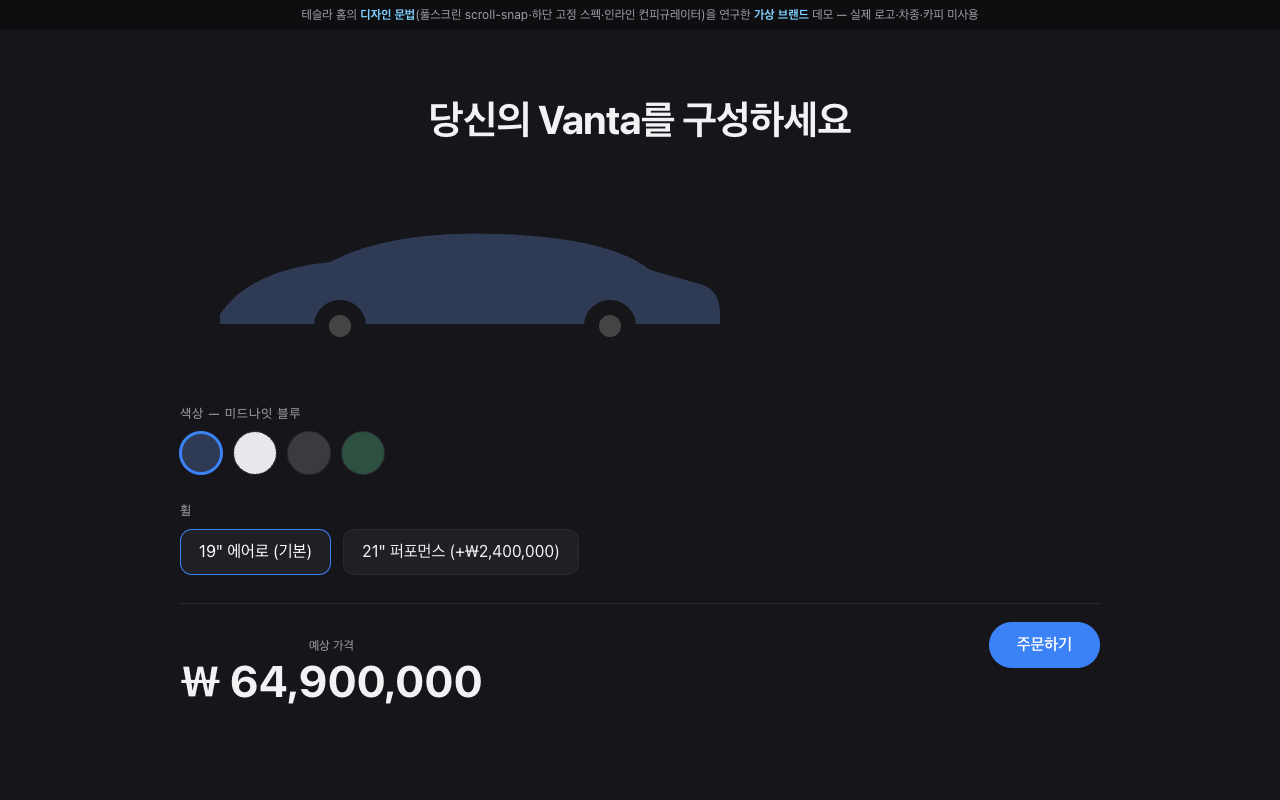
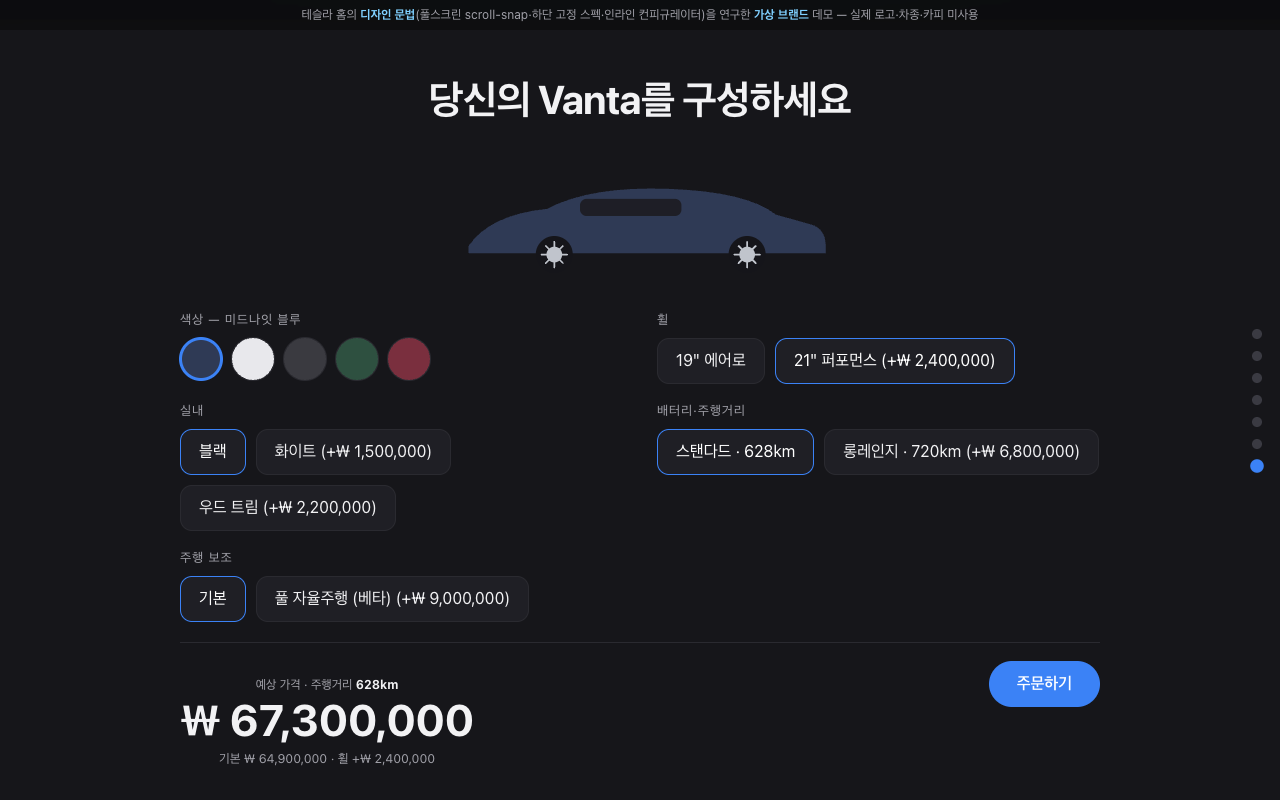
feat(vanta-ev): 스냅 인디케이터 + 패널 리빌 + 폴리시 + 썸네일(마감)
- 스냅 인디케이터: 우측 점 7개(클릭=앵커 JS0, 현재 패널 강조=IO). 기존 script에 append.
- 패널 진입 리빌: h1·specbar 페이드+라이즈(CSS scroll-driven, .snap 기준), @user/reduced-motion 폴백. 스크롤 큐 바운스.
- 썸네일: public/static/showcases/vanta-ev.png(1280×800, 컨피규레이터 + 인디케이터).

배치 1~2(7패널 scroll-snap·컨피규레이터 5그룹·specbar) 무손상. JS 1블록 유지. 이미지 0·다크 테마 유지. yarn demo:sync 폴더 복사. build/golden 그린, demos 격리.

diff --git a/demos/vanta-ev/index.html b/demos/vanta-ev/index.html
@@ -41,7 +41,29 @@
   .scene .specbar { position: absolute; bottom: 9vh; left: 0; right: 0; display: flex; gap: clamp(20px, 6vw, 64px); justify-content: center; }
   .specbar .c .v { font-size: clamp(22px, 4vw, 34px); font-weight: 700; }
   .specbar .c .k { font-size: 12px; color: var(--ink-2); letter-spacing: .03em; }
-  .scroll-cue { position: absolute; bottom: 3vh; left: 0; right: 0; font-size: 12px; color: var(--ink-2); letter-spacing: .2em; }
+  .scroll-cue { position: absolute; bottom: 3vh; left: 0; right: 0; font-size: 12px; color: var(--ink-2); letter-spacing: .2em; animation: cue 1.8s ease-in-out infinite; }
+  @keyframes cue { 0%,100% { transform: translateY(0); opacity: .7; } 50% { transform: translateY(6px); opacity: 1; } }
+
+  /* ── 스냅 인디케이터(우측 점) — 클릭 시 해당 패널로(앵커), 현재 패널 강조(JS) ── */
+  .dots { position: fixed; top: 50%; right: 18px; transform: translateY(-50%); z-index: 40; display: flex; flex-direction: column; gap: 12px; }
+  .dots a { width: 10px; height: 10px; border-radius: 50%; background: #3a3a42; transition: background .25s, transform .25s; }
+  .dots a:hover { background: var(--ink-2); }
+  .dots a.on { background: var(--accent); transform: scale(1.35); }
+  @media (max-width: 700px) { .dots { display: none; } }
+
+  /* ── 패널 진입 리빌(은은) — CSS scroll-driven, .snap 스크롤러 기준 ── */
+  @supports (animation-timeline: view()) {
+    .scene h1, .scene .sub, .scene .specbar { animation: rise linear both; animation-timeline: view(); }
+    .scene h1 { animation-range: entry 8% cover 34%; }
+    .scene .sub { animation-range: entry 14% cover 40%; }
+    .scene .specbar { animation-range: entry 20% cover 46%; }
+  }
+  @keyframes rise { from { opacity: 0; transform: translateY(26px); } to { opacity: 1; transform: none; } }
+  @media (prefers-reduced-motion: reduce) {
+    .snap { scroll-behavior: auto; }
+    .scroll-cue, .streak line { animation: none; }
+    .scene h1, .scene .sub, .scene .specbar { animation: none !important; opacity: 1; transform: none; }
+  }
 
   /* 컨피규레이터 */
   .config { background: var(--panel); }
@@ -72,7 +94,16 @@
   <p class="study">테슬라 홈의 <b>디자인 문법</b>(풀스크린 scroll-snap·하단 고정 스펙·인라인 컨피규레이터)을 연구한 <b>가상 브랜드</b> 데모 — 실제 로고·차종·카피 미사용</p>
 
   <div class="snap">
-    <section class="scene s1">
+    <nav class="dots" aria-label="패널 내비게이션">
+      <a href="#p1" aria-label="패널 1"></a>
+      <a href="#p2" aria-label="패널 2"></a>
+      <a href="#p3" aria-label="패널 3"></a>
+      <a href="#p4" aria-label="패널 4"></a>
+      <a href="#p5" aria-label="패널 5"></a>
+      <a href="#p6" aria-label="패널 6"></a>
+      <a href="#p7" aria-label="패널 7"></a>
+    </nav>
+    <section class="scene s1" id="p1">
       <div>
         <h1>Vanta</h1>
         <p class="sub">전기로 다시 그린 주행.</p>
@@ -92,7 +123,7 @@
       <div class="scroll-cue">스크롤 ↓</div>
     </section>
 
-    <section class="scene s4">
+    <section class="scene s4" id="p2">
       <div>
         <h1>정지에서 속도까지,<br>망설임 없이.</h1>
         <p class="sub">듀얼 모터가 네 바퀴를 동시에 민다. 생각하는 순간, 이미 달린다.</p>
@@ -117,7 +148,7 @@
       <div class="scroll-cue">스크롤 ↓</div>
     </section>
 
-    <section class="scene s5">
+    <section class="scene s5" id="p3">
       <div>
         <h1>하루를 채우고도<br>남는다.</h1>
         <p class="sub">아침 출근부터 주말 여행까지. 충전 걱정은 잠시 잊어도 좋다.</p>
@@ -139,7 +170,7 @@
       <div class="scroll-cue">스크롤 ↓</div>
     </section>
 
-    <section class="scene s2">
+    <section class="scene s2" id="p4">
       <div>
         <h1>멈출 때를 안다.</h1>
         <p class="sub">8개의 카메라가 360°를 본다. 끼어드는 차도, 갑자기 멈춘 차도.</p>
@@ -152,7 +183,7 @@
       <div class="scroll-cue">스크롤 ↓</div>
     </section>
 
-    <section class="scene s6">
+    <section class="scene s6" id="p5">
       <div>
         <h1>운전석이 곧<br>인터페이스.</h1>
         <p class="sub">버튼을 지웠다. 모든 조작이 하나의 화면으로, 그리고 목소리로.</p>
@@ -176,7 +207,7 @@
       <div class="scroll-cue">스크롤 ↓</div>
     </section>
 
-    <section class="scene s7">
+    <section class="scene s7" id="p6">
       <div>
         <h1>스스로 보고,<br>스스로 판단한다.</h1>
         <p class="sub">차선 유지부터 자동 차선 변경까지. 길고 지루한 길일수록 빛난다.</p>
@@ -201,7 +232,7 @@
       <div class="scroll-cue">스크롤 ↓</div>
     </section>
 
-    <section class="scene config s3">
+    <section class="scene config s3" id="p7">
       <div class="inner">
         <h2>당신의 Vanta를 구성하세요</h2>
         <div class="car-wrap" style="margin:0 auto;max-width:400px;">
@@ -311,6 +342,23 @@
         g.apply(g.options[0]); // 기본값 적용
       });
       render();
+    })();
+
+    // 스냅 인디케이터 — 현재 패널 강조(.snap 스크롤러 기준 IntersectionObserver). 클릭 이동은 앵커(JS 0).
+    (function () {
+      var dots = [].slice.call(document.querySelectorAll('.dots a'));
+      var scenes = [].slice.call(document.querySelectorAll('.scene'));
+      var snap = document.querySelector('.snap');
+      if (!dots.length || !('IntersectionObserver' in window)) { if (dots[0]) dots[0].classList.add('on'); return; }
+      var io = new IntersectionObserver(function (entries) {
+        entries.forEach(function (e) {
+          if (e.isIntersecting) {
+            var i = scenes.indexOf(e.target);
+            dots.forEach(function (d, di) { d.classList.toggle('on', di === i); });
+          }
+        });
+      }, { root: snap, threshold: 0.5 });
+      scenes.forEach(function (s) { io.observe(s); });
     })();
   </script>
 </body>

diff --git a/public/showcases/vanta-ev/index.html b/public/showcases/vanta-ev/index.html
@@ -41,7 +41,29 @@
   .scene .specbar { position: absolute; bottom: 9vh; left: 0; right: 0; display: flex; gap: clamp(20px, 6vw, 64px); justify-content: center; }
   .specbar .c .v { font-size: clamp(22px, 4vw, 34px); font-weight: 700; }
   .specbar .c .k { font-size: 12px; color: var(--ink-2); letter-spacing: .03em; }
-  .scroll-cue { position: absolute; bottom: 3vh; left: 0; right: 0; font-size: 12px; color: var(--ink-2); letter-spacing: .2em; }
+  .scroll-cue { position: absolute; bottom: 3vh; left: 0; right: 0; font-size: 12px; color: var(--ink-2); letter-spacing: .2em; animation: cue 1.8s ease-in-out infinite; }
+  @keyframes cue { 0%,100% { transform: translateY(0); opacity: .7; } 50% { transform: translateY(6px); opacity: 1; } }
+
+  /* ── 스냅 인디케이터(우측 점) — 클릭 시 해당 패널로(앵커), 현재 패널 강조(JS) ── */
+  .dots { position: fixed; top: 50%; right: 18px; transform: translateY(-50%); z-index: 40; display: flex; flex-direction: column; gap: 12px; }
+  .dots a { width: 10px; height: 10px; border-radius: 50%; background: #3a3a42; transition: background .25s, transform .25s; }
+  .dots a:hover { background: var(--ink-2); }
+  .dots a.on { background: var(--accent); transform: scale(1.35); }
+  @media (max-width: 700px) { .dots { display: none; } }
+
+  /* ── 패널 진입 리빌(은은) — CSS scroll-driven, .snap 스크롤러 기준 ── */
+  @supports (animation-timeline: view()) {
+    .scene h1, .scene .sub, .scene .specbar { animation: rise linear both; animation-timeline: view(); }
+    .scene h1 { animation-range: entry 8% cover 34%; }
+    .scene .sub { animation-range: entry 14% cover 40%; }
+    .scene .specbar { animation-range: entry 20% cover 46%; }
+  }
+  @keyframes rise { from { opacity: 0; transform: translateY(26px); } to { opacity: 1; transform: none; } }
+  @media (prefers-reduced-motion: reduce) {
+    .snap { scroll-behavior: auto; }
+    .scroll-cue, .streak line { animation: none; }
+    .scene h1, .scene .sub, .scene .specbar { animation: none !important; opacity: 1; transform: none; }
+  }
 
   /* 컨피규레이터 */
   .config { background: var(--panel); }
@@ -72,7 +94,16 @@
   <p class="study">테슬라 홈의 <b>디자인 문법</b>(풀스크린 scroll-snap·하단 고정 스펙·인라인 컨피규레이터)을 연구한 <b>가상 브랜드</b> 데모 — 실제 로고·차종·카피 미사용</p>
 
   <div class="snap">
-    <section class="scene s1">
+    <nav class="dots" aria-label="패널 내비게이션">
+      <a href="#p1" aria-label="패널 1"></a>
+      <a href="#p2" aria-label="패널 2"></a>
+      <a href="#p3" aria-label="패널 3"></a>
+      <a href="#p4" aria-label="패널 4"></a>
+      <a href="#p5" aria-label="패널 5"></a>
+      <a href="#p6" aria-label="패널 6"></a>
+      <a href="#p7" aria-label="패널 7"></a>
+    </nav>
+    <section class="scene s1" id="p1">
       <div>
         <h1>Vanta</h1>
         <p class="sub">전기로 다시 그린 주행.</p>
@@ -92,7 +123,7 @@
       <div class="scroll-cue">스크롤 ↓</div>
     </section>
 
-    <section class="scene s4">
+    <section class="scene s4" id="p2">
       <div>
         <h1>정지에서 속도까지,<br>망설임 없이.</h1>
         <p class="sub">듀얼 모터가 네 바퀴를 동시에 민다. 생각하는 순간, 이미 달린다.</p>
@@ -117,7 +148,7 @@
       <div class="scroll-cue">스크롤 ↓</div>
     </section>
 
-    <section class="scene s5">
+    <section class="scene s5" id="p3">
       <div>
         <h1>하루를 채우고도<br>남는다.</h1>
         <p class="sub">아침 출근부터 주말 여행까지. 충전 걱정은 잠시 잊어도 좋다.</p>
@@ -139,7 +170,7 @@
       <div class="scroll-cue">스크롤 ↓</div>
     </section>
 
-    <section class="scene s2">
+    <section class="scene s2" id="p4">
       <div>
         <h1>멈출 때를 안다.</h1>
         <p class="sub">8개의 카메라가 360°를 본다. 끼어드는 차도, 갑자기 멈춘 차도.</p>
@@ -152,7 +183,7 @@
       <div class="scroll-cue">스크롤 ↓</div>
     </section>
 
-    <section class="scene s6">
+    <section class="scene s6" id="p5">
       <div>
         <h1>운전석이 곧<br>인터페이스.</h1>
         <p class="sub">버튼을 지웠다. 모든 조작이 하나의 화면으로, 그리고 목소리로.</p>
@@ -176,7 +207,7 @@
       <div class="scroll-cue">스크롤 ↓</div>
     </section>
 
-    <section class="scene s7">
+    <section class="scene s7" id="p6">
       <div>
         <h1>스스로 보고,<br>스스로 판단한다.</h1>
         <p class="sub">차선 유지부터 자동 차선 변경까지. 길고 지루한 길일수록 빛난다.</p>
@@ -201,7 +232,7 @@
       <div class="scroll-cue">스크롤 ↓</div>
     </section>
 
-    <section class="scene config s3">
+    <section class="scene config s3" id="p7">
       <div class="inner">
         <h2>당신의 Vanta를 구성하세요</h2>
         <div class="car-wrap" style="margin:0 auto;max-width:400px;">
@@ -311,6 +342,23 @@
         g.apply(g.options[0]); // 기본값 적용
       });
       render();
+    })();
+
+    // 스냅 인디케이터 — 현재 패널 강조(.snap 스크롤러 기준 IntersectionObserver). 클릭 이동은 앵커(JS 0).
+    (function () {
+      var dots = [].slice.call(document.querySelectorAll('.dots a'));
+      var scenes = [].slice.call(document.querySelectorAll('.scene'));
+      var snap = document.querySelector('.snap');
+      if (!dots.length || !('IntersectionObserver' in window)) { if (dots[0]) dots[0].classList.add('on'); return; }
+      var io = new IntersectionObserver(function (entries) {
+        entries.forEach(function (e) {
+          if (e.isIntersecting) {
+            var i = scenes.indexOf(e.target);
+            dots.forEach(function (d, di) { d.classList.toggle('on', di === i); });
+          }
+        });
+      }, { root: snap, threshold: 0.5 });
+      scenes.forEach(function (s) { io.observe(s); });
     })();
   </script>
 </body>

diff --git a/demos/vanta-ev/README.md b/demos/vanta-ev/README.md
@@ -6,6 +6,7 @@
 - **구매 흐름이 곧 홈페이지**: 풀스크린 섹션을 스크롤로 넘기며 차종·기능을 보여주고, 마지막에 인라인 **컨피규레이터**로 바로 구성.
 - **풀스크린 몰입 + 하단 고정 스펙**: 각 섹션 `scroll-snap`, 하단에 3개 스펙 수치 오버레이.
 - **긴 여정(7패널)**: 히어로 → 성능 → 주행거리·충전 → 안전 → 실내 → 주행 보조 → 컨피규레이터. 각 패널은 SVG 비주얼(가속 스트릭·배터리·대시보드·센서 경로)과 specbar, 이미지 0.
+- **스냅 내비 + 진입 리빌**: 우측 패널 점(현재 패널 강조, 클릭 시 이동) · 각 패널 진입 시 h1·specbar 페이드+라이즈(CSS scroll-driven, `prefers-reduced-motion` 정지) · 스크롤 큐 미세 바운스.
 
 ## 어떻게 재현했나
 - 풀스크린 = **CSS `scroll-snap-type: y mandatory`**. 차량은 **인라인 SVG**.